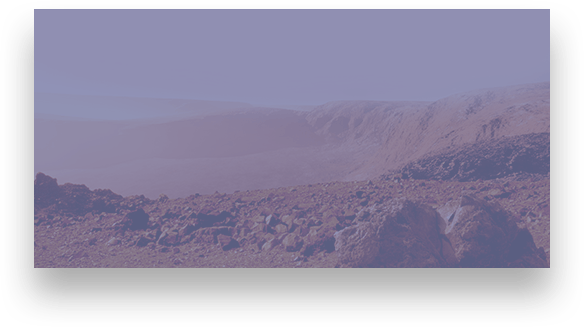
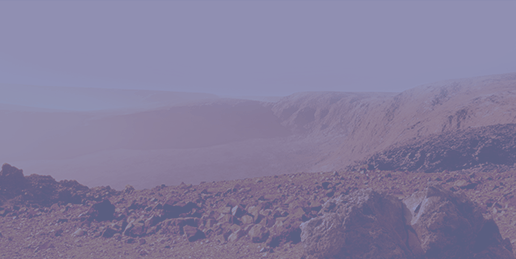
added styles to destination section for tablet version

diff --git a/source/sass/blocks/destination.scss b/source/sass/blocks/destination.scss
@@ -118,3 +118,77 @@
     background-color: $red-color;
   }
 }
+
+@media (min-width: $tablet-width) {
+  .destination {
+    background-image:
+      url("../img/substrate-destination(tablet).jpg"),
+      linear-gradient(to right, $crimson-dark 0%, $crimson-light 100%);
+    background-repeat: no-repeat;
+    background-position: top;
+    background-size:
+      765px 940px,
+      auto auto;
+    min-width: 750px;
+    margin-top: -64px;
+  }
+
+  .destination-wrapper{
+    @include tablet-content;
+    @include tablet-margin;
+    padding-bottom: 37px;
+  }
+
+  .destination__wrapper-title {
+    padding-top: 230px;
+  }
+
+  .destination__title {
+    font-size: 157px;
+    line-height: 52px;
+  }
+
+  .destination__text {
+    font-size: 30px;
+    line-height: 35px;
+  }
+
+  .destination__wrapper-video-picture {
+    margin-top: 117px;
+
+    &::before {
+      top: 104px;
+      left: 253px;
+    }
+  }
+
+  .destination__video-picture {
+    width: 516px;
+    height: 259px;
+  }
+
+  .destination__video-description {
+    top: 723px;
+    left: 479px;
+  }
+
+  .destination__button-down {
+    width: 75px;
+    height: 75px;
+    margin-top: 51px;
+
+    &::before,
+    &::after {
+      width: 15px;
+      height: 15px;
+    }
+
+    &::before {
+      transform: translateX(23px) rotate(-45deg);
+    }
+
+    &::after {
+      transform: translate(18px,0px) rotate(-45deg);
+    }
+  }
+}

diff --git a/source/index.html b/source/index.html
@@ -33,6 +33,7 @@
         </div>
         <div class="destination__wrapper-video-picture">
           <picture>
+            <source media="(min-width: 750px)" srcset="img/first-city(tablet).png 1x">
             <img class="destination__video-picture" src="img/first-city.png" alt="Видео про первый город на планете Марс">
           </picture>
         </div>

diff --git a/source/sass/blocks/main-header.scss b/source/sass/blocks/main-header.scss
@@ -9,5 +9,8 @@
 }
 
 @media (min-width: $tablet-width) {
-  
+  .main-header {
+    @include tablet-content;
+    @include tablet-margin;
+  }
 }
